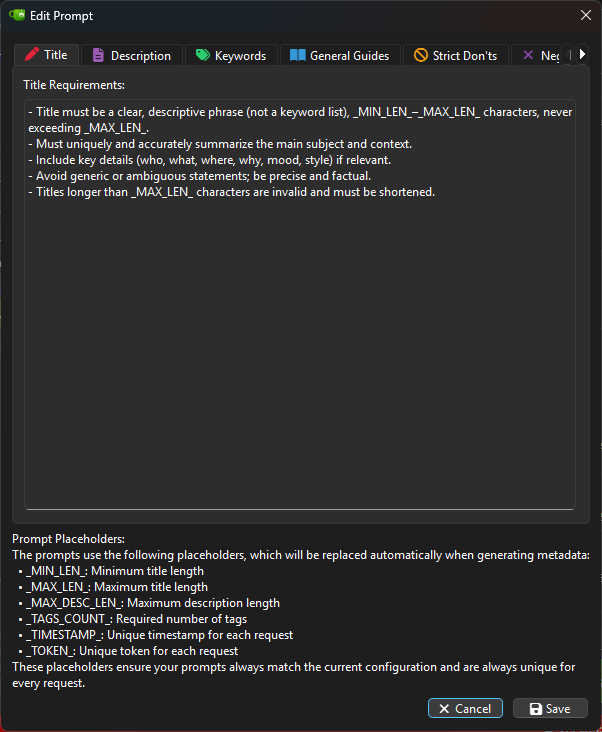
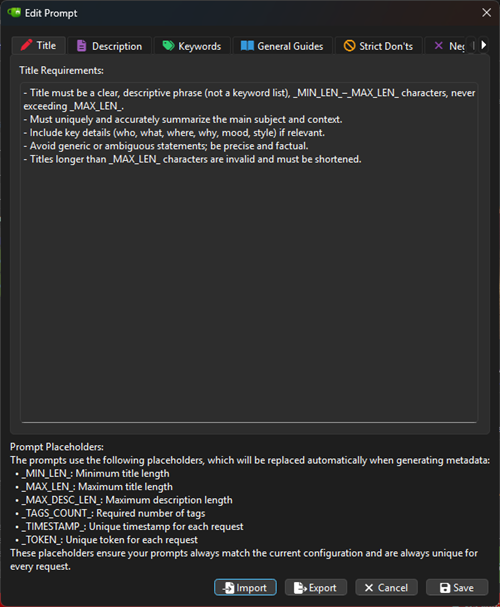
feat: Add import/export functionality for prompt backups and enhance UI with clear button

Changed region(s): [[0.42, 0.9489, 0.84, 1.0], [0.99, 0.4448, 1.0, 0.5338]]

diff --git a/dialogs/edit_prompt_dialog.py b/dialogs/edit_prompt_dialog.py
@@ -1,10 +1,11 @@
-from PySide6.QtWidgets import QDialog, QVBoxLayout, QTextEdit, QPushButton, QHBoxLayout, QLabel, QMessageBox, QWidget, QGridLayout, QTabWidget
+from PySide6.QtWidgets import QDialog, QVBoxLayout, QTextEdit, QPushButton, QHBoxLayout, QLabel, QMessageBox, QWidget, QGridLayout, QTabWidget, QFileDialog
 from PySide6.QtCore import Qt
 from PySide6.QtGui import QTextOption, QPixmap, QPainter, QColor, QIcon
 import qtawesome as qta
 import os
 import sys
 import json
+import datetime
 
 sys.path.insert(0, os.path.dirname(os.path.dirname(os.path.abspath(__file__))))
 from config import BASE_PATH
@@ -110,10 +111,20 @@ class EditPromptDialog(QDialog):
         self.cancel_btn.setIcon(qta.icon("fa6s.xmark"))
         self.cancel_btn.clicked.connect(self.reject)
 
+        self.import_btn = QPushButton("Import")
+        self.import_btn.setIcon(qta.icon("fa6s.file-import"))
+        self.import_btn.clicked.connect(self.import_prompt)
+
+        self.export_btn = QPushButton("Export")
+        self.export_btn.setIcon(qta.icon("fa6s.file-export"))
+        self.export_btn.clicked.connect(self.export_prompt)
+
         self.save_btn = QPushButton("Save")
         self.save_btn.setIcon(qta.icon("fa6s.floppy-disk"))
 
         btn_layout.addStretch(1)
+        btn_layout.addWidget(self.import_btn)
+        btn_layout.addWidget(self.export_btn)
         btn_layout.addWidget(self.cancel_btn)
         btn_layout.addWidget(self.save_btn)
         main_layout.addLayout(btn_layout)
@@ -154,3 +165,48 @@ class EditPromptDialog(QDialog):
             self.accept()
         except Exception as e:
             QMessageBox.warning(self, "Error", f"Failed to save prompt: {e}")
+
+    def export_prompt(self):
+        try:
+            data = {
+                "prompt": {
+                    "title_requirements": self.title_req_edit.toPlainText(),
+                    "description_requirements": self.desc_req_edit.toPlainText(),
+                    "keywords_requirements": self.keywords_req_edit.toPlainText(),
+                    "general_guides": self.general_guides_edit.toPlainText(),
+                    "strict_donts": self.strict_donts_edit.toPlainText(),
+                    "negative_prompt": self.negative_prompt_edit.toPlainText(),
+                }
+            }
+            default_name = f"Image_Tea_Prompt_Backup_{datetime.datetime.now().strftime('%Y%m%d_%H%M%S')}.json"
+            start_path = os.path.join(os.path.expanduser("~"), default_name)
+            path, _ = QFileDialog.getSaveFileName(self, "Export Prompt Backup", start_path, "JSON files (*.json)")
+            if not path:
+                return
+            with open(path, "w", encoding="utf-8") as f:
+                json.dump(data, f, indent=2, ensure_ascii=False)
+            QMessageBox.information(self, "Exported", f"Prompt exported to:\n{path}")
+        except Exception as e:
+            QMessageBox.warning(self, "Error", f"Failed to export prompt: {e}")
+
+    def import_prompt(self):
+        try:
+            path, _ = QFileDialog.getOpenFileName(self, "Import Prompt Backup", os.path.expanduser("~"), "JSON files (*.json)")
+            if not path:
+                return
+            with open(path, "r", encoding="utf-8") as f:
+                data = json.load(f)
+            if "prompt" not in data or not isinstance(data["prompt"], dict):
+                QMessageBox.warning(self, "Invalid File", "Selected file does not contain a valid prompt backup.")
+                return
+            prompt_data = data["prompt"]
+            # Populate editor fields — user must click Save to persist to config
+            self.title_req_edit.setPlainText(prompt_data.get("title_requirements", ""))
+            self.desc_req_edit.setPlainText(prompt_data.get("description_requirements", ""))
+            self.keywords_req_edit.setPlainText(prompt_data.get("keywords_requirements", ""))
+            self.general_guides_edit.setPlainText(prompt_data.get("general_guides", ""))
+            self.strict_donts_edit.setPlainText(prompt_data.get("strict_donts", ""))
+            self.negative_prompt_edit.setPlainText(prompt_data.get("negative_prompt", ""))
+            QMessageBox.information(self, "Imported", "Prompt values loaded into editor. Click Save to persist changes to the application configuration.")
+        except Exception as e:
+            QMessageBox.warning(self, "Error", f"Failed to import prompt: {e}")

diff --git a/dialogs/custom_prompt_dialog.py b/dialogs/custom_prompt_dialog.py
@@ -21,12 +21,17 @@ class CustomPromptDialog(QDialog):
         self.cancel_btn.setIcon(qta.icon("fa6s.xmark"))
         self.cancel_btn.clicked.connect(self.reject)
 
+        self.clear_btn = QPushButton("Clear", self)
+        self.clear_btn.setIcon(qta.icon("fa6s.broom"))
+        self.clear_btn.clicked.connect(lambda: self.text_edit.clear())
+
         self.save_btn = QPushButton("Save", self)
         self.save_btn.setIcon(qta.icon("fa6s.floppy-disk"))
         self.save_btn.clicked.connect(self.save_and_close)
 
         btn_layout.addStretch()
         btn_layout.addWidget(self.cancel_btn)
+        btn_layout.addWidget(self.clear_btn)
         btn_layout.addWidget(self.save_btn)
         layout.addLayout(btn_layout)
 

diff --git a/documentation/lang_ID/1. Cara Penggunaan/9. sesuaikan_prompt.md b/documentation/lang_ID/1. Cara Penggunaan/9. sesuaikan_prompt.md
@@ -45,3 +45,11 @@ Dengan menyesuaikan prompt kamu bisa mengarahkan gaya, panjang, dan struktur met
 - Perilaku: tulis aturan khusus pada kotak teks lalu klik **Save**. Nilai disimpan di `configs/ai_config.json` pada kunci `prompt.custom_prompt`.
 - Efek: jika diisi, helper AI akan memasukkan isi Custom Prompt sebagai instruksi wajib saat membuat metadata; ini menambah instruksi ke template, bukan mengganti atau mengubah template.
 - Menghapus: kosongkan kotak teks lalu simpan untuk menghapus aturan khusus, atau klik **Cancel** untuk membatalkan perubahan.
+
+## Cadangkan & Pulihkan (Import / Export)
+
+- Gunakan **Export** untuk membuat backup JSON dari field prompt saat ini.
+- Nama file export: nama default adalah `Image_Tea_Prompt_Backup_YYYYMMDD_HHMMSS.json` (kamu bisa memilih lokasi lain saat menyimpan).
+- Isi export: file backup berformat JSON dengan kunci top-level `prompt` yang berisi field editor (`title_requirements`, `description_requirements`, `keywords_requirements`, `general_guides`, `strict_donts`, `negative_prompt`).
+- Perilaku import: **Import** akan memuat isi backup ke field editor; kamu harus menekan **Save** pada dialog untuk menyimpan perubahan ke `configs/ai_config.json`.
+- Catatan: file yang diimpor divalidasi agar memiliki objek `prompt`; jika terjadi error saat import/export, akan ditampilkan dialog peringatan. Export default mengusulkan direktori home, tetapi kamu bisa memilih lokasi lain.

diff --git a/documentation/lang_EN/1. How to Use/9. customizing_prompt.md b/documentation/lang_EN/1. How to Use/9. customizing_prompt.md
@@ -45,3 +45,11 @@ Customizing prompts gives you direct control over the style, length, and structu
 - Behavior: enter the special rules in the textbox and click **Save**. The value is persisted to `configs/ai_config.json` under `prompt.custom_prompt`.
 - Effect: when set, the AI helpers include the custom prompt as a mandatory instruction for generation; it augments the templates but does not replace or modify them.
 - To remove or stop using the custom rules, clear the textbox and save (or leave unchanged by clicking **Cancel**).
+
+## Backup & Restore (Import / Export)
+
+- Use **Export** to create a JSON backup of the current prompt fields.
+- Export filename: the default name is `Image_Tea_Prompt_Backup_YYYYMMDD_HHMMSS.json` (you can choose a different path when saving).
+- Export content: the backup is a JSON object with a top-level `prompt` key containing the editor fields (title_requirements, description_requirements, keywords_requirements, general_guides, strict_donts, negative_prompt).
+- Import behavior: **Import** loads a backup JSON into the editor fields; you must click **Save** in the dialog to persist those values to `configs/ai_config.json`.
+- Notes: imported files are validated for a `prompt` object; errors during import/export are shown in a dialog. Export defaults to your file-save location (home folder) but you can choose any path.
